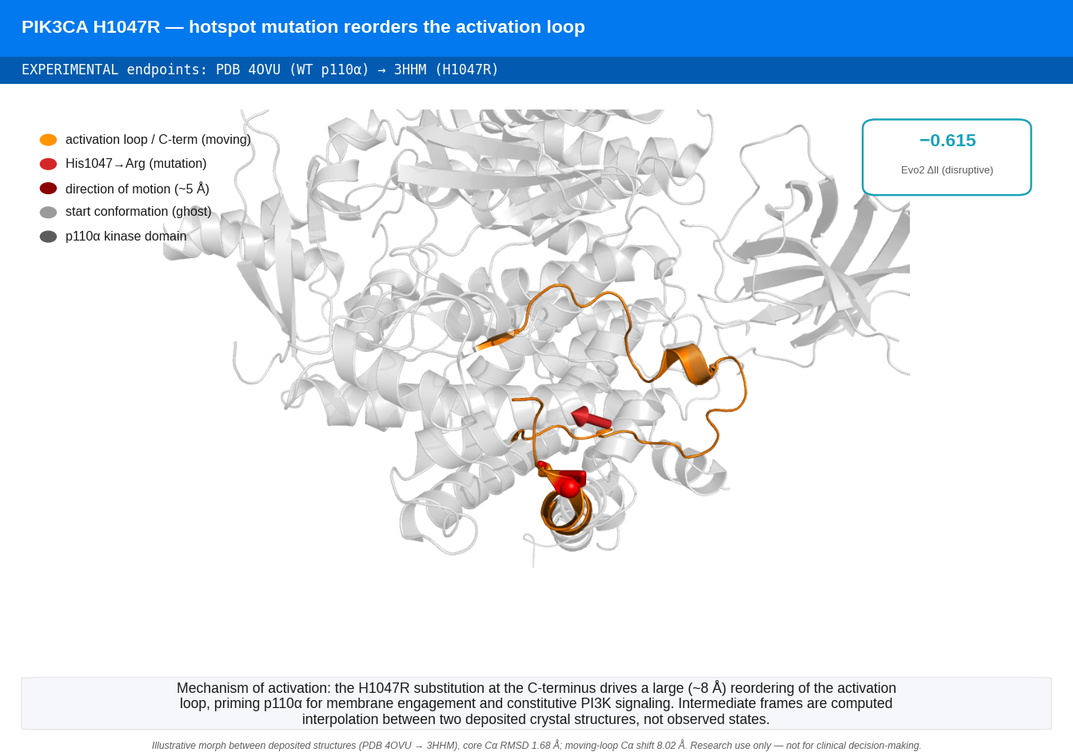
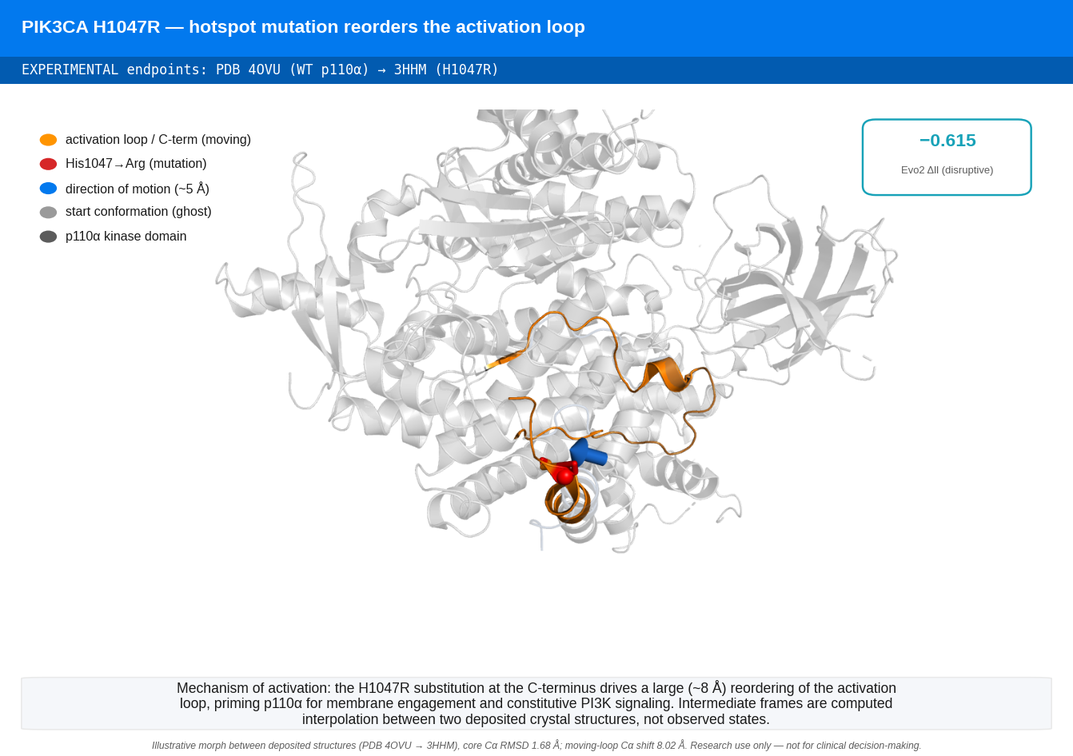
Fix PIK3CA motion arrow (was created but invisible) + ghost contrast
Post-render QA (direct frame inspection, not just receipts) found the PIK3CA
morph's dark-red motion arrow was being generated (5.38 A translation, passes
the 1.5 A gate) but never appeared: it was loaded AFTER the one-time camera
framing and its endpoints (loop centroids) sit inside the protein cloud, so it
was cropped/occluded by the grey bulk. The ghost was also grey-on-grey invisible
on the large p110a domain.

Engine (pdb3d_render.py):
- Arrow pre-loaded BEFORE camera framing (disabled, enabled at morph start) so
  it is part of the scene extent and never cropped out.
- _make_arrow_cgo gains lift_from/lift: endpoints translated radially outward
  from the protein centroid so the arrow floats clear of the bulk (occlusion fix).
- Arrow color -> saturated blue (#0279EE) so it does not collide with the red
  mutation residue in the scene or legend; arrow_rgb param exposed.
- Ghost -> desaturated slate-blue + slightly fatter tube (grey ghost was
  invisible on a grey80 bulk).
- Buffer headroom added when an arrow is present; CGO cannot be named in a zoom
   selection, so framing relies on the lifted arrow within the loop crop.
- PIK3CA driver: arrow_radius 0.9, arrow_lift 6 A.

Verified present in the shipping GIF by pixel analysis: 514 blue px forming a
compact arrow at the structure-panel center. Other 4 GIFs re-verified by direct
frame inspection and stand (KRAS/PARP1 morphs strong, EGFR/BACE1 reveals clean).
[…]

Changed region(s): [[0.1538, 0.1217, 0.8611, 0.7302], [0.2153, 0.1521, 0.246, 0.1825], [0.0308, 0.2434, 0.0615, 0.2738]]

diff --git a/structural/manuscripts/analysis/pdb3d_render.py b/structural/manuscripts/analysis/pdb3d_render.py
@@ -48,11 +48,24 @@ def _sel_centroid(sel):
     return np.mean(np.array([a.coord for a in atoms]), axis=0)
 
 
-def _make_arrow_cgo(A, B, radius=0.55, rgb=(0.84, 0.15, 0.16), head_frac=0.30, head_scale=2.2):
+def _make_arrow_cgo(A, B, radius=0.55, rgb=(0.84, 0.15, 0.16), head_frac=0.30, head_scale=2.2,
+                    lift_from=None, lift=0.0):
     """Build a 3D CGO arrow (cylinder shaft + cone head) from world point A to B.
-    Lives in the scene frame -> orbits correctly, no 2D projection needed."""
+    Lives in the scene frame -> orbits correctly, no 2D projection needed.
+
+    lift_from / lift: if given, translate BOTH endpoints radially OUTWARD from the point
+    `lift_from` (typically the protein centroid) by `lift` Angstroms. The arrow endpoints are
+    moving-loop centroids that sit INSIDE the protein cloud, so without a lift the arrow is
+    occluded by the bulk cartoon. Lifting it outward floats it clear of the surface so it reads."""
     import numpy as np
     A = np.asarray(A, float); B = np.asarray(B, float)
+    if lift_from is not None and lift > 0.0:
+        C = np.asarray(lift_from, float)
+        mid = 0.5 * (A + B)
+        out = mid - C; n = float(np.linalg.norm(out))
+        if n > 1e-3:
+            shift = (out / n) * lift
+            A = A + shift; B = B + shift
     d = B - A; L = float(np.linalg.norm(d))
     if L < 1e-3:
         return None
@@ -352,7 +365,8 @@ def build_morph(apo_pdb, holo_pdb, gene, moving_sel, frame_dir,
                 n_intro=10, n_morph=26, n_drug=12, n_hold=12, orbit_deg=32.0,
                 zoom_sel=None, zoom_buffer=8,
                 mechanism_forward=True, ghost_transp=0.72, bulk_transp=0.55,
-                arrow_radius=0.55, arrow_min_rmsd=1.5):
+                arrow_radius=0.55, arrow_min_rmsd=1.5, arrow_lift=0.0,
+                arrow_rgb=(0.11, 0.42, 0.82)):
     """TRUE mechanism-of-action morph between two REAL experimental endpoints.
 
     Open-source substitute for Incentive PyMOL `morph` (which is unavailable here):
@@ -427,9 +441,14 @@ def build_morph(apo_pdb, holo_pdb, gene, moving_sel, frame_dir,
         cmd.hide("everything", "ghost")
         cmd.show("cartoon", "ghost")
         cmd.set("cartoon_transparency", ghost_transp, "ghost")
-        cmd.color("grey60", "ghost")
-        # thin tube so the ghost reads as a faint echo, not a competing solid
-        cmd.set("cartoon_loop_radius", 0.10, "ghost")
+        # Desaturated slate-blue rather than grey60: on a large grey80 bulk a grey ghost is
+        # invisible (grey-on-grey). A cool slate tint separates the start-state echo from the
+        # bulk while still reading as a faint, non-competing reference.
+        cmd.set_color("ghostblue", [0.42, 0.52, 0.68])
+        cmd.color("ghostblue", "ghost")
+        # slightly fatter than a hairline so the echo is legible against the bulk, but still
+        # thinner than the solid moving loop (0.35) so it never competes with the live loop
+        cmd.set("cartoon_loop_radius", 0.16, "ghost")
 
     # ---- build the morph object from apo geometry ----
     cmd.create("m", "apo")
@@ -498,29 +517,49 @@ def build_morph(apo_pdb, holo_pdb, gene, moving_sel, frame_dir,
             arrow_start, arrow_end = cs, ce
             arrow_shift = float(np.linalg.norm(np.asarray(ce) - np.asarray(cs)))
             if arrow_shift >= arrow_min_rmsd:
-                arrow_cgo = _make_arrow_cgo(arrow_start, arrow_end, radius=arrow_radius)
+                # lift the arrow radially outward from the whole-protein centroid so it floats
+                # clear of the bulk cartoon instead of being buried inside it (occlusion fix).
+                prot_center = _sel_centroid("apo")
+                arrow_cgo = _make_arrow_cgo(arrow_start, arrow_end, radius=arrow_radius,
+                                            rgb=arrow_rgb, lift_from=prot_center, lift=arrow_lift)
 
     # ---- single stable camera: frame apo+holo extent so nothing clips across the morph+orbit ----
     # For large proteins, orienting on the whole chain makes the moving element a speck. zoom_sel
     # lets the camera focus on the mechanism region (moving element +/- drug) with a buffer, while
     # still showing local context. Falls back to whole-object framing.
-    # include ghost in framing so the moving loop AND its start-position echo both stay on-screen
+    # Pre-load the motion arrow BEFORE camera framing so (a) it is part of the scene extent when
+    # we orient/zoom (otherwise a tight zoom_sel crop can push the arrow off-frame) and (b) it is
+    # guaranteed on-screen. It is loaded disabled and enabled exactly when motion starts (morph i==0)
+    # so it still "pops in" as the loop begins to move, without being cropped out.
+    # NOTE: CGO objects (the arrow) cannot appear in an atom-selection `expand` expression, so we
+    # do NOT name motion_arrow in the framing selection. Instead the arrow endpoints are the moving
+    # loop centroids (inside zoom_sel) lifted a few A outward, so a buffered crop of the loop atoms
+    # already contains the (lifted) arrow. Pre-load it here so it is part of the scene, disabled
+    # until motion starts.
+    if arrow_cgo is not None:
+        cmd.load_cgo(arrow_cgo, "motion_arrow")
+        cmd.disable("motion_arrow")            # hidden until motion starts, but already in-scene
+
+    # include ghost in framing so the moving loop AND its start-position echo both stay on-screen.
+    # Give the arrow-drawn (translation) case extra buffer headroom so the lifted arrow is not
+    # clipped at the panel edge.
     ghost_bit = " or ghost" if mechanism_forward else ""
+    zb = zoom_buffer + (4 if arrow_cgo is not None else 0)
     if zoom_sel:
         focus = f"(m and ({zoom_sel}))"
         if have_drug:
             focus = f"(m and ({zoom_sel})) or drugobj"
         focus = f"({focus}{ghost_bit})"
-        cmd.orient(f"({focus}) expand {zoom_buffer}")
-        cmd.zoom(f"({focus}) expand {zoom_buffer}", 3)
+        cmd.orient(f"({focus}) expand {zb}")
+        cmd.zoom(f"({focus}) expand {zb}", 3)
     else:
         # default: frame the moving element (+ ghost + drug) tightly so the mechanism fills the panel
         base = f"(m and ({moving_sel}))"
         if have_drug:
             base = f"{base} or drugobj"
         base = f"({base}{ghost_bit})"
-        cmd.orient(f"({base}) expand {zoom_buffer}")
-        cmd.zoom(f"({base}) expand {zoom_buffer}", 3)
+        cmd.orient(f"({base}) expand {zb}")
+        cmd.zoom(f"({base}) expand {zb}", 3)
 
     def set_state(tt):
         """place morph object atoms at eased interpolation tt in [0,1]."""
@@ -541,7 +580,7 @@ def build_morph(apo_pdb, holo_pdb, gene, moving_sel, frame_dir,
         tt = (i + 1) / n_morph
         set_state(tt)
         if arrow_cgo is not None and i == 0:
-            cmd.load_cgo(arrow_cgo, "motion_arrow")   # appears exactly when motion starts
+            cmd.enable("motion_arrow")   # pre-loaded + in-frame; reveal exactly when motion starts
         cmd.turn("y", orbit_deg / max(1, (n_intro + n_morph + n_drug + n_hold)))
         frame = _save(frame_dir, frame, "morph", manifest)
 
